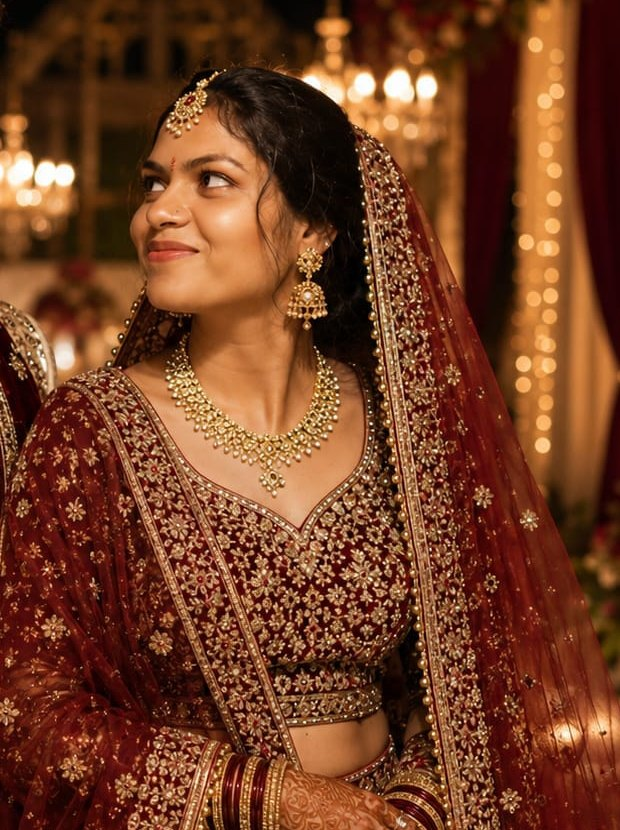
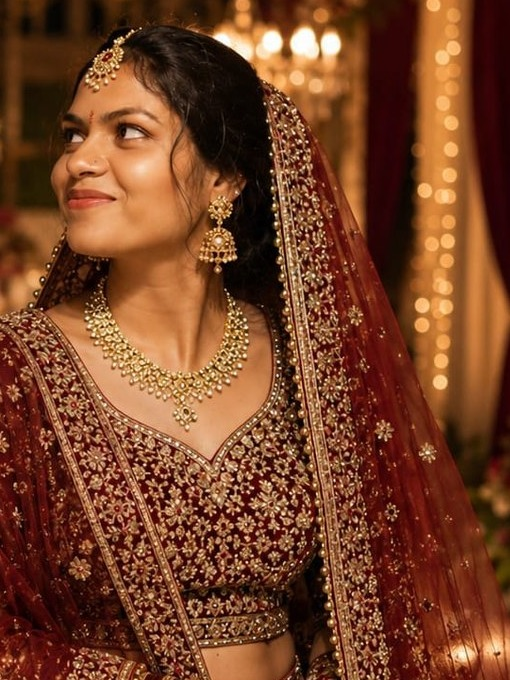
Add personalised guest invite links and match card details
- Share section: type a guest's name to get a link (?to=Name); the
  WhatsApp message and copied link greet that guest by name
- Gate screen shows "आदरणीय <name>" when opened from such a link
- Family names and senders corrected to match the printed card
- Moments: drop solo groom and Simran close-up photos, add pheras and
  ring ceremony images
- Re-crop groom and bride photos so neither shows part of the other

diff --git a/data/wedding.ts b/data/wedding.ts
@@ -140,8 +140,8 @@ export const wedding: WeddingData = {
         {
           label: { hi: "फूफाजी", en: "Phoophaji" },
           names: [
-            "स्व. लक्ष्मण जी – सौ. कला बाई",
-            "स्व. राजाराम जी – सौ. राधा बाई",
+            "स्व. लक्ष्मण जी – श्रीमती कला बाई",
+            "स्व. राजाराम जी – श्रीमती राधा बाई",
             "भैयालाल जी – सौ. कृष्णा बाई",
             "गोपाल जी – सौ. शारदा बाई",
             "उमाशंकर जी – सौ. मीरा बाई",
@@ -163,6 +163,7 @@ export const wedding: WeddingData = {
             "महेश जी – सौ. सीमा बाई",
             "प्रदीप जी – सौ. शीतल बाई",
             "कुणाल जी प्रजापति",
+            "राजकुमारी, निशा",
             "एवं समस्त प्रजापति परिवार",
           ],
         },
@@ -175,7 +176,7 @@ export const wedding: WeddingData = {
           names: [
             "स्व. रामचरण जी – शांति बाई प्रजापति",
             "भागवत जी – सौ. कृष्णा बाई",
-            "हरिराम जी – सौ. स्व. रूपलता बाई",
+            "हरिराम जी – श्रीमती स्व. रूपलता बाई",
             "विष्णु जी – सौ. उर्मिला बाई",
             "प्रवीण जी – सौ. रुक्मणी बाई",
             "संजीव जी – सौ. उर्मिला बाई",
@@ -183,7 +184,7 @@ export const wedding: WeddingData = {
             "दिनेश जी – सौ. उर्मिला",
             "मोनू जी – सौ. पूनम",
             "सुमित जी – सौ. शिवानी",
-            "तुषार, आयुष, दीपांशु, मोहित",
+            "तुषार, आयुष, दीपांशु, मोहित, भारती, वंशिका",
           ],
         },
       ],
@@ -200,7 +201,6 @@ export const wedding: WeddingData = {
     names: [
       { hi: "श्री रामकरण जी प्रजापति", en: "Shri Ramkaran ji Prajapati" },
       { hi: "श्री महेश जी प्रजापति", en: "Shri Mahesh ji Prajapati" },
-      { hi: "श्री कृपाराम जी प्रजापति", en: "Shri Kriparam ji Prajapati" },
     ],
     address: { hi: "ग्राम पुनासा, जिला खंडवा (म.प्र.)", en: "Punasa, District Khandwa (M.P.)" },
     phones: ["9630216115", "7000842735"],
@@ -214,11 +214,9 @@ export const wedding: WeddingData = {
     { photo: "/photos/mehndi-look.jpg", cap: { hi: "मेहंदी", en: "Mehndi" } },
     { photo: "/photos/sagai-look.jpg", cap: { hi: "सगाई", en: "Engagement" } },
     { photo: "/photos/reception-look.jpg", cap: { hi: "स्नेहभोज", en: "Reception" } },
-    { photo: "/photos/groom-sherwani.jpg", cap: { hi: "दूल्हे राजा", en: "The Groom" } },
-    { photo: "/photos/groom-jodhpuri.jpg", cap: { hi: "शाही अंदाज़", en: "Royal Look" } },
-    { photo: "/photos/groom-bandi.jpg", cap: { hi: "रितेश", en: "Ritesh" } },
     { photo: "/photos/couple.jpg", cap: { hi: "हम दोनों", en: "Together Forever" } },
-    { photo: "/photos/simran-closeup.jpg", cap: { hi: "सिमरन", en: "Simran" } },
+    { photo: "/photos/pheras.jpg", cap: { hi: "सात फेरे", en: "Saat Phere" } },
+    { photo: "/photos/ring.jpg", cap: { hi: "अंगूठी रस्म", en: "Ring Ceremony" } },
   ],
 
   siteUrl: "",

diff --git a/app/globals.css b/app/globals.css
@@ -151,6 +151,9 @@ html[lang="hi"] .seal-names { font-family: var(--f-hi); font-size: 1.3rem; color
 .seal-names span { padding: 0 4px; color: var(--rose); }
 .seal-btn { margin-top: 16px; padding: 12px 28px; border-radius: 999px; font-family: var(--f-hi); font-size: 1.05rem; color: var(--white); background: linear-gradient(135deg, #7a2442, var(--wine)); box-shadow: 0 0 0 2px var(--gold-soft), 0 10px 22px -6px rgba(90, 24, 48, 0.7); animation: pulse 2s ease-in-out infinite; }
 .seal-hint { margin-top: 12px; font-size: 0.85rem; color: var(--ink-soft); }
+.seal-guest { display: flex; flex-direction: column; gap: 2px; margin: 4px 0 8px; padding: 8px 12px; border-top: 1px dashed var(--gold-line); border-bottom: 1px dashed var(--gold-line); }
+.seal-guest strong { font-family: var(--f-hi); font-weight: 400; font-size: 1.45rem; line-height: 1.3; color: var(--wine); overflow-wrap: anywhere; }
+.seal-dear { font-family: var(--f-hi); font-size: 0.85rem; color: var(--rose); }
 @keyframes pulse { 50% { transform: scale(1.06); } }
 
 /* ==========================================================================
@@ -490,6 +493,12 @@ html[lang="hi"] .ring-card figcaption { font-family: var(--f-hi); font-size: 1.0
    ========================================================================== */
 .share-card { padding: 34px 22px; text-align: center; }
 .share-card .btn-row { margin-top: 4px; }
+.guest-field { display: flex; flex-direction: column; align-items: center; gap: 8px; max-width: 420px; margin: 0 auto 18px; }
+.guest-label { font-family: var(--f-hi); font-size: 1.1rem; color: var(--wine); }
+.guest-field input { width: 100%; padding: 12px 18px; border-radius: 999px; border: 1.5px solid var(--gold); background: var(--white); font-family: var(--f-hi); font-size: 1.05rem; color: var(--ink); text-align: center; outline: none; transition: box-shadow 0.25s; }
+.guest-field input:focus { box-shadow: 0 0 0 4px rgba(201, 160, 80, 0.25); }
+.guest-hint { font-size: 0.85rem; color: var(--ink-soft); }
+.guest-link { max-width: 420px; margin: -6px auto 16px; padding: 6px 12px; border-radius: 10px; background: var(--peach); font-size: 0.8rem; color: var(--ink-soft); overflow-wrap: anywhere; }
 .senders { margin-top: 28px; padding-top: 24px; border-top: 1px dashed var(--gold-line); }
 .senders-title { font-family: var(--f-hi); font-weight: 400; font-size: 1.5rem; color: var(--wine); }
 html[lang="en"] .senders-title { font-family: var(--f-script); font-size: 2.2rem; color: var(--gold-deep); }

diff --git a/components/ShareJoy.tsx b/components/ShareJoy.tsx
@@ -3,7 +3,7 @@
 import { useEffect, useState } from "react";
 import Corners from "./Corners";
 import SectionHead from "./SectionHead";
-import { inviteMessage } from "@/lib/utils";
+import { guestLink, inviteMessage } from "@/lib/utils";
 import { useLanguage } from "@/lib/LanguageContext";
 import type { WeddingData } from "@/types/wedding";
 
@@ -11,15 +11,17 @@ export default function ShareJoy({ data }: { data: WeddingData }) {
   const { p, t } = useLanguage();
   const [siteUrl, setSiteUrl] = useState(data.siteUrl);
   const [copied, setCopied] = useState(false);
+  const [guest, setGuest] = useState("");
 
   useEffect(() => {
     if (!data.siteUrl) setSiteUrl(window.location.origin + window.location.pathname);
   }, [data.siteUrl]);
 
-  const shareHref = "https://api.whatsapp.com/send?text=" + encodeURIComponent(inviteMessage(data, siteUrl));
+  const link = guestLink(siteUrl, guest);
+  const shareHref = "https://api.whatsapp.com/send?text=" + encodeURIComponent(inviteMessage(data, link, guest));
 
   const copyLink = () => {
-    navigator.clipboard?.writeText(siteUrl || window.location.href).then(() => {
+    navigator.clipboard?.writeText(link || window.location.href).then(() => {
       setCopied(true);
       setTimeout(() => setCopied(false), 2500);
     });
@@ -31,6 +33,18 @@ export default function ShareJoy({ data }: { data: WeddingData }) {
 
       <div className="card paper share-card frame rv">
         <Corners />
+        <label className="guest-field">
+          <span className="guest-label">{t("guestNameLabel")}</span>
+          <input
+            type="text"
+            value={guest}
+            onChange={(e) => setGuest(e.target.value.slice(0, 60))}
+            placeholder={t("guestNamePlaceholder")}
+            autoComplete="off"
+          />
+          <small className="guest-hint">{t("guestNameHint")}</small>
+        </label>
+        {guest.trim() && <p className="guest-link">{link}</p>}
         <div className="btn-row">
           <a className="btn-royal btn-whatsapp" href={shareHref} target="_blank" rel="noopener noreferrer">
             💬 {t("inviteWhatsApp")}

diff --git a/lib/LanguageContext.tsx b/lib/LanguageContext.tsx
@@ -19,6 +19,8 @@ const DICTIONARY: Record<string, L> = {
   gateWelcome: { hi: "स्वागतम्", en: "Welcome" },
   gateOpen: { hi: "निमंत्रण खोलें", en: "Open Invitation" },
   gateHint: { hi: "द्वार खोलने के लिए स्पर्श करें", en: "Tap to open the doors" },
+  dearGuest: { hi: "आदरणीय", en: "Dear" },
+  guestInvited: { hi: "आप सपरिवार सादर आमंत्रित हैं", en: "You and your family are warmly invited" },
 
   // Navbar
   navHome: { hi: "मुख्य", en: "Home" },
@@ -79,6 +81,12 @@ const DICTIONARY: Record<string, L> = {
   inviteWhatsApp: { hi: "WhatsApp पर निमंत्रण भेजें", en: "Send Invite on WhatsApp" },
   copyLink: { hi: "निमंत्रण लिंक कॉपी करें", en: "Copy Invitation Link" },
   linkCopied: { hi: "✓ लिंक कॉपी हो गया", en: "✓ Link Copied" },
+  guestNameLabel: { hi: "जिसे भेजना है उनका नाम लिखें", en: "Name of the guest you're inviting" },
+  guestNamePlaceholder: { hi: "जैसे: श्री राजेश जी शर्मा", en: "e.g. Shri Rajesh ji Sharma" },
+  guestNameHint: {
+    hi: "लिंक खोलते ही निमंत्रण पर उनका नाम दिखेगा",
+    en: "Their name will appear on the invitation when they open the link",
+  },
   sendersTitle: { hi: "प्रेषक", en: "Sent By" },
   call: { hi: "कॉल करें", en: "Call" },
 

diff --git a/components/Gate.tsx b/components/Gate.tsx
@@ -3,6 +3,7 @@
 import { useEffect, useRef, useState } from "react";
 import { prefersReducedMotion } from "@/lib/utils";
 import { useLanguage } from "@/lib/LanguageContext";
+import { useGuestName } from "@/lib/useGuestName";
 import type { WeddingData } from "@/types/wedding";
 
 /** Fired when the guest opens the doors; MusicButton listens and starts the shehnai. */
@@ -11,6 +12,7 @@ export const GATE_OPEN_EVENT = "wedding:gate-open";
 /** Full-screen palace doors, shown on every visit, that swing open in 3D only when tapped. */
 export default function Gate({ data }: { data: WeddingData }) {
   const { p, t } = useLanguage();
+  const guest = useGuestName();
   const [state, setState] = useState<"closed" | "opening" | "gone">("closed");
   const opened = useRef(false);
 
@@ -50,6 +52,13 @@ export default function Gate({ data }: { data: WeddingData }) {
         <div className="seal-coin">
           <span className="seal-om">ॐ</span>
         </div>
+        {guest && (
+          <div className="seal-guest">
+            <span className="seal-dear">{t("dearGuest")}</span>
+            <strong>{guest}</strong>
+            <span className="seal-dear">{t("guestInvited")}</span>
+          </div>
+        )}
         <div className="seal-title">{t("shubhVivah")}</div>
         <div className="seal-names">
           {p(data.groom.alias ?? data.groom.name)} <span>{t("sang")}</span> {p(data.bride.name)}

diff --git a/lib/utils.ts b/lib/utils.ts
@@ -24,9 +24,21 @@ export function groupEventsByDay(days: Day[], events: WeddingEvent[]) {
   return days.map((day) => ({ day, items: events.filter((e) => e.day === day.id) })).filter((g) => g.items.length);
 }
 
-export function inviteMessage(d: WeddingData, siteUrl: string): string {
+/** URL param that carries the guest's name in a personalised invitation link */
+export const GUEST_PARAM = "to";
+
+/** Invitation link that greets one guest by name when opened. */
+export function guestLink(siteUrl: string, guest: string): string {
+  const name = guest.trim();
+  if (!name) return siteUrl;
+  return `${siteUrl}${siteUrl.includes("?") ? "&" : "?"}${GUEST_PARAM}=${encodeURIComponent(name)}`;
+}
+
+export function inviteMessage(d: WeddingData, siteUrl: string, guest = ""): string {
   return (
-    `॥ श्री गणेशाय नमः ॥\n\n*शुभ विवाह*\n` +
+    `॥ श्री गणेशाय नमः ॥\n\n` +
+    (guest.trim() ? `आदरणीय *${guest.trim()}*,\n\n` : "") +
+    `*शुभ विवाह*\n` +
     `चि. ${d.groom.name.hi} (${d.groom.alias?.hi}) संग सौ.कां. ${d.bride.name.hi}\n\n` +
     `स्नेहभोज: ${d.feast.date.hi}, ${d.feast.time.hi}\n` +
     `स्थान: ${d.venue.name.hi}, ${d.venue.address.hi}\n` +

diff --git a/lib/useGuestName.ts b/lib/useGuestName.ts
@@ -1,0 +1,16 @@
+"use client";
+
+import { useEffect, useState } from "react";
+import { GUEST_PARAM } from "./utils";
+
+/** The guest's name from a personalised link (?to=Name), or "" on the plain link. */
+export function useGuestName(): string {
+  const [name, setName] = useState("");
+
+  useEffect(() => {
+    const raw = new URLSearchParams(window.location.search).get(GUEST_PARAM) ?? "";
+    setName(raw.replace(/\s+/g, " ").trim().slice(0, 60));
+  }, []);
+
+  return name;
+}
